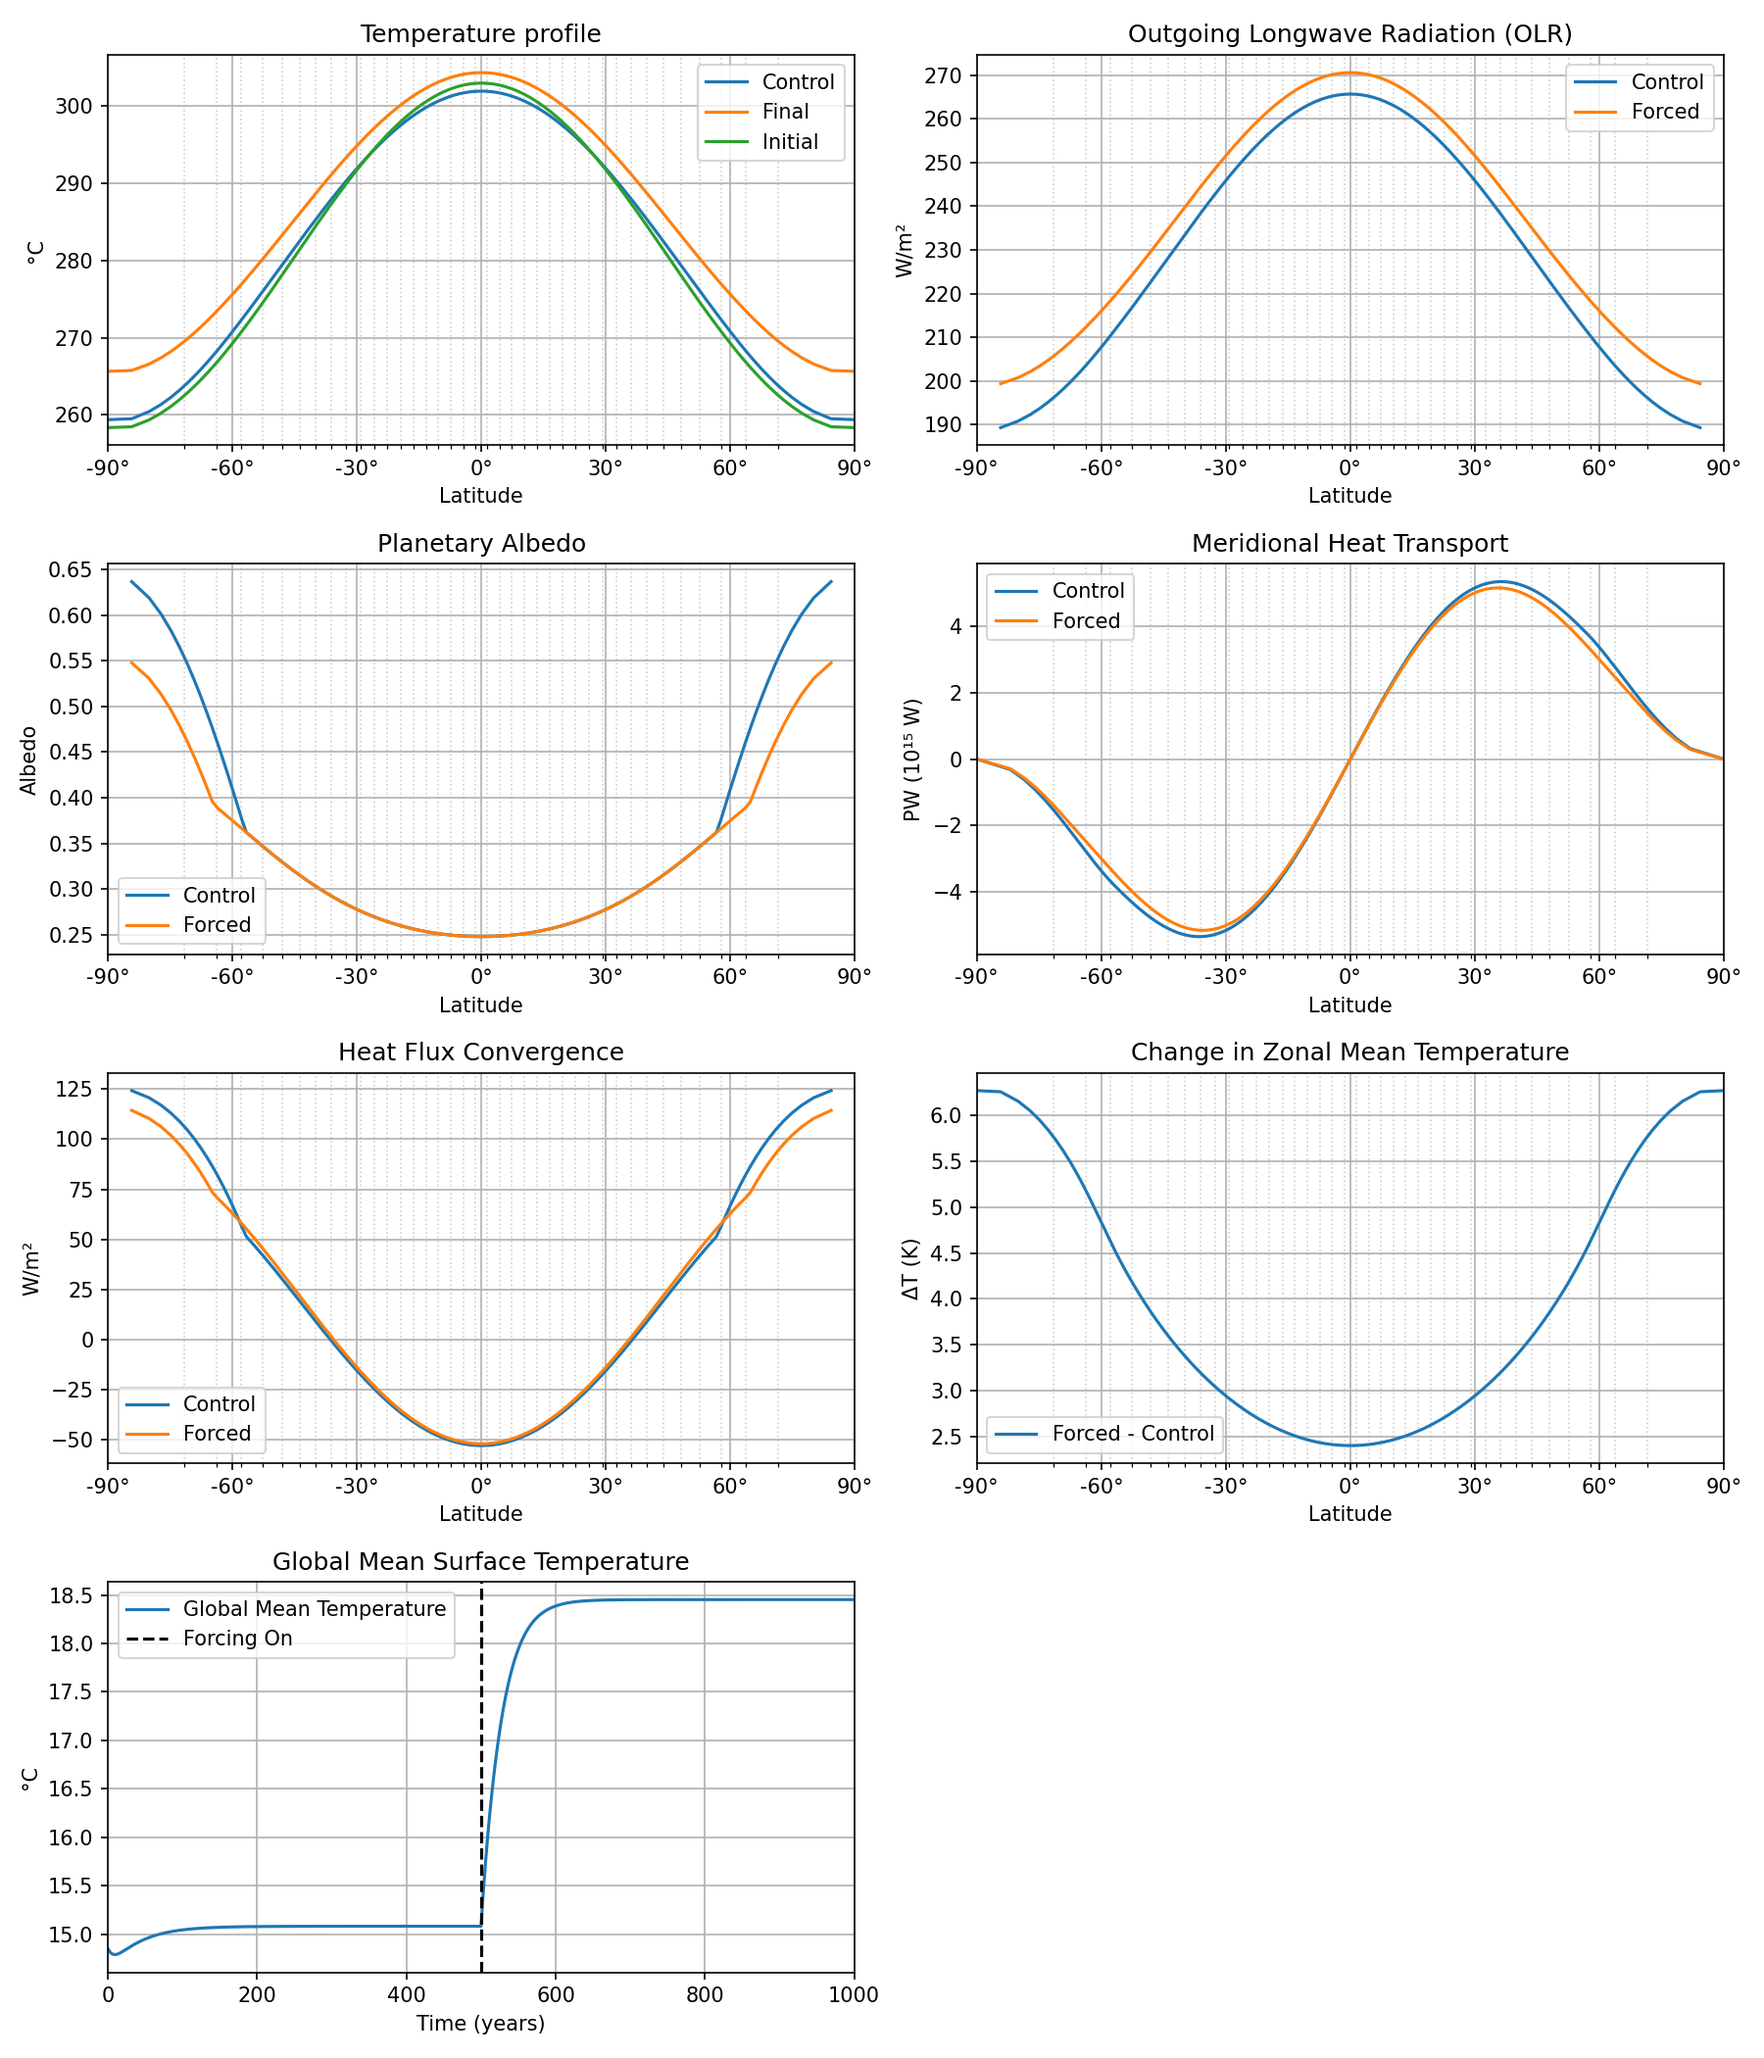
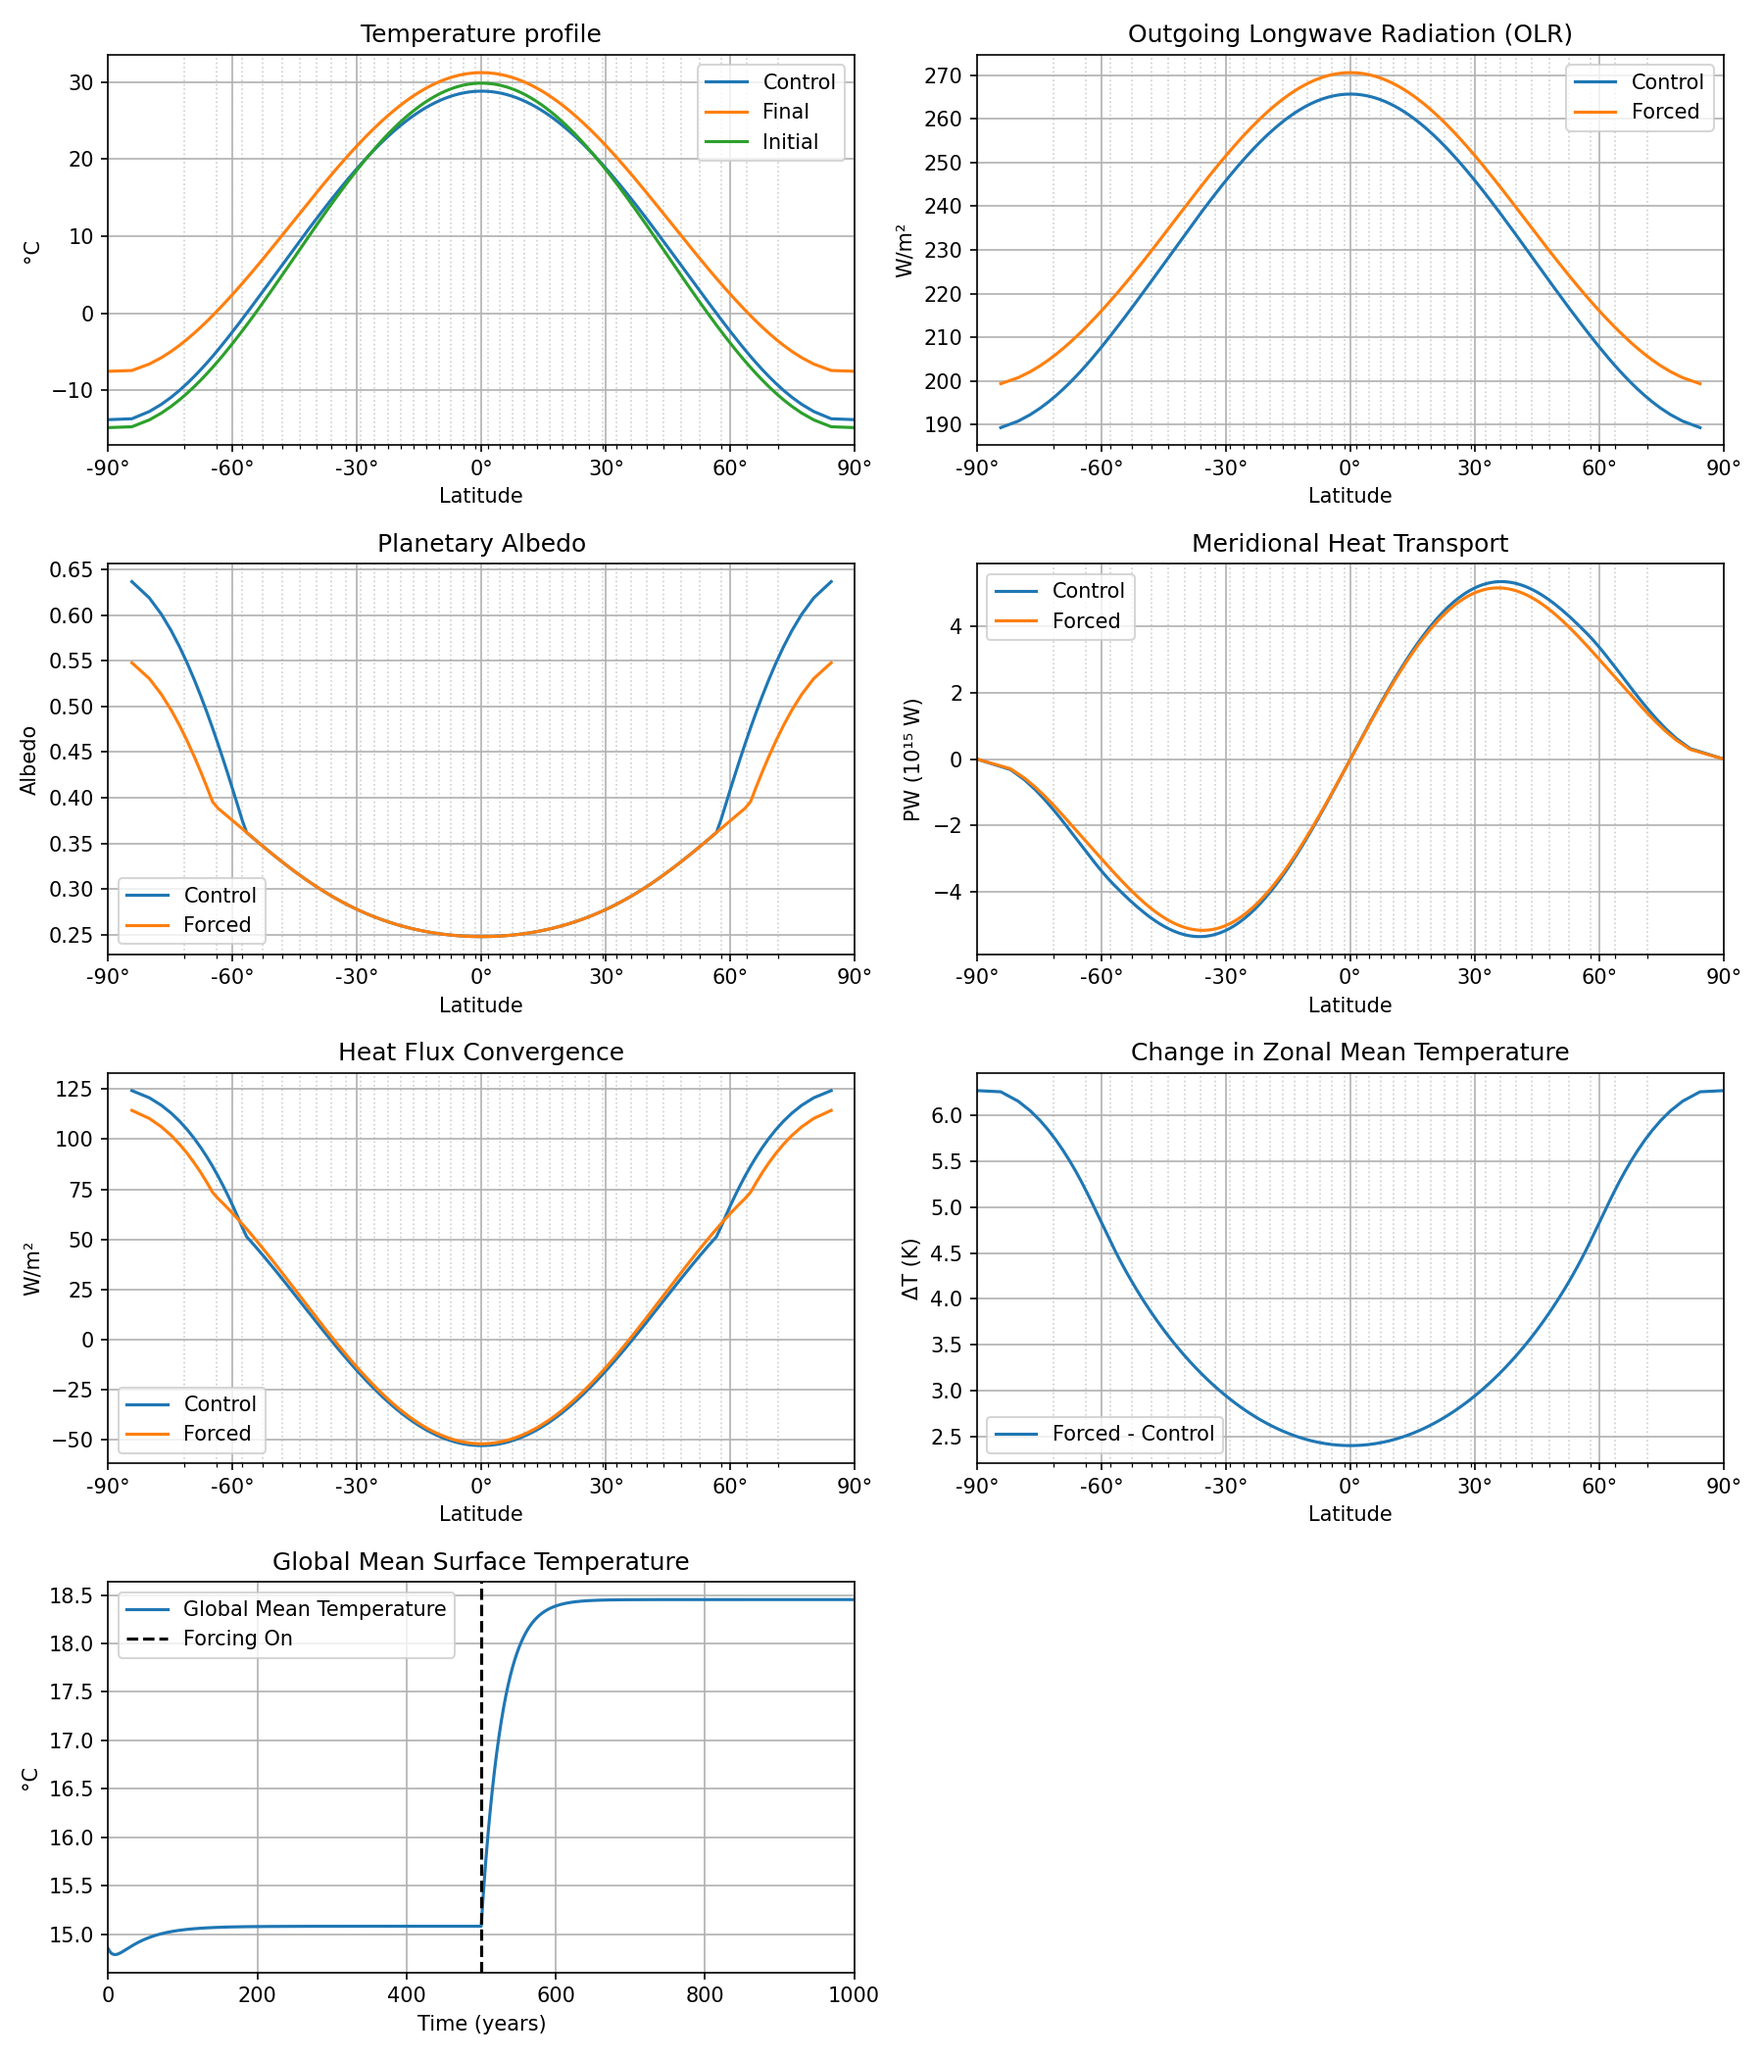
Much more on heat capacity

diff --git a/Programfiler/physics.py b/Programfiler/physics.py
@@ -1,4 +1,6 @@
 import numpy as np
+from scipy.interpolate import CubicSpline
+
 
 # ---------------- Physical / model constants ----------------
 SIGMA = 5.67e-8                  # Stefan-Boltzmann (W/m²/K⁴)
@@ -90,7 +92,7 @@ def deltaT_of_Ts(Ts, k3):
     """Equation (13): δT(Ts) = DELTA_T0 + k3 (Ts - T00), with lower bound."""
     return np.maximum(DELTA_T0 + k3 * (Ts - T00), DELTA_T_MIN)
 
-def heat_capacity_profile(nx, T, k1):
+def heat_capacity_profile(x, T, k1):
     """
     Compute latitude-dependent effective heat capacities for a sin(lat)-spaced EBM grid.
     
@@ -123,19 +125,14 @@ def heat_capacity_profile(nx, T, k1):
         See references below. :contentReference[oaicite:0]{index=0}
     - Southern Hemisphere has greater ocean fraction than Northern Hemisphere; we reflect
         that asymmetry in f_ocean(lat). :contentReference[oaicite:1]{index=1}
-    """
-    T = np.asarray(T)
-    assert T.shape == (nx,), "T must be length nx"
-    
+    """    
     # physical constants
     rho = 1000.0        # kg/m^3
     cp = 4186.0         # J/kg/K
     h_land = 8.0        # m, land equivalent (water-equivalent), ~1/30 of deep-ocean reference
     
-    # latitude grid in sin(lat) space
-    x = np.linspace(-1.0, 1.0, nx)        # sin(latitude)
-    lat_rad = np.arcsin(x)                # radians
-    lat_deg = np.degrees(lat_rad)         # degrees, negative = southern hemisphere
+    # latitude in degrees from x = sin(lat)
+    lat_deg = np.degrees(np.arcsin(x))
     
     # --------------------------
     # Ocean mixed-layer depth profile (seasonal-scale, more nuance)
@@ -162,29 +159,36 @@ def heat_capacity_profile(nx, T, k1):
                         30.0])   # near North Pole (shallow seasonal ML do to fresh water)
     
     # interpolate mixed-layer depth onto grid
-    h_ocean = np.interp(lat_deg, lat_knots, h_knots)
+    interpolater = CubicSpline(lat_knots, h_knots, bc_type='clamped')
+    h_ocean = interpolater(lat_deg)
+
+    # # --------------------------
+    # # Asymmetric zonal ocean fraction f_ocean(lat)
+    # # Hard-coded (smooth) zonal ocean fraction knots. Values based on general land/ocean
+    # # geography: Southern hemisphere has more ocean (esp. 30S-60S), Northern hemisphere has
+    # # more land at mid-latitudes (Eurasia, North America). These are smooth, empirical values.
+    # # Source: qualitative/quantitative zonal land fraction diagrams (e.g. land-fraction vs latitude).
+    # lat_knots_f = np.array([-90, -70, -50, -30, -15, 0, 15, 30, 50, 70, 90])
+    # # zonal ocean fraction at knots (0..1). Southern hemisphere has systematically larger ocean fraction.
+    # f_ocean_knots = np.array([0.0,  # Continent/ice cap
+    #                         0.75,   # 70S -> Mostly Antarctic land, but surrounding Southern Ocean begins
+    #                         0.95,   # 50S -> Southern Ocean dominates
+    #                         0.8,  # 30S -> Still ocean-dominated, only S. America, Africa, Australia
+    #                         0.8,   # 15S -> Mostly ocean
+    #                         0.75,  # 0   -> Continents cut across (Africa, S. America, Indonesia)
+    #                         0.75,   # 15N -> Africa + Asia reduce ocean fraction
+    #                         0.55,   # 30N -> Subtropics: Africa, Asia, N. America
+    #                         0.4,  # 50N -> Eurasia + N. America dominate, but N. Atlantic/Pacific present
+    #                         0.65,  # 70N -> Arctic Ocean exists, though partly enclosed
+    #                         1.0])  # Central Arctic Ocean basin
+    data = np.loadtxt("ocean_fraction_by_latitude_5deg.csv", delimiter=",", skiprows=1)
+    lat_knots_f = data[:,0]
+    f_ocean_knots = data[:,1]
     
-    # --------------------------
-    # Asymmetric zonal ocean fraction f_ocean(lat)
-    # Hard-coded (smooth) zonal ocean fraction knots. Values based on general land/ocean
-    # geography: Southern hemisphere has more ocean (esp. 30S-60S), Northern hemisphere has
-    # more land at mid-latitudes (Eurasia, North America). These are smooth, empirical values.
-    # Source: qualitative/quantitative zonal land fraction diagrams (e.g. land-fraction vs latitude).
-    lat_knots_f = np.array([-90, -70, -50, -30, -15, 0, 15, 30, 50, 70, 90])
-    # zonal ocean fraction at knots (0..1). Southern hemisphere has systematically larger ocean fraction.
-    f_ocean_knots = np.array([0.0,  # Continent/ice cap
-                            0.2,   # 70S -> Mostly Antarctic land, but surrounding Southern Ocean begins
-                            0.9,   # 50S -> Southern Ocean dominates
-                            0.85,  # 30S -> Still ocean-dominated, only S. America, Africa, Australia
-                            0.8,   # 15S -> Mostly ocean
-                            0.75,  # 0   -> Continents cut across (Africa, S. America, Indonesia)
-                            0.7,   # 15N -> Africa + Asia reduce ocean fraction
-                            0.6,   # 30N -> Subtropics: Africa, Asia, N. America
-                            0.55,  # 50N -> Eurasia + N. America dominate, but N. Atlantic/Pacific present
-                            0.65,  # 70N -> Arctic Ocean exists, though partly enclosed
-                            1.0])  # Central Arctic Ocean basin
-    f_ocean = np.clip(np.interp(lat_deg, lat_knots_f, f_ocean_knots), 0.0, 1.0)
-    
+    # interpolate ocean fraction onto grid
+    interpolater = CubicSpline(lat_knots_f, f_ocean_knots, bc_type='clamped')
+    f_ocean = np.clip(interpolater(lat_deg), 0.0, 1.0)
+
     # --------------------------
     # --- Ice fraction (same formula as in albedo) ---
     # ice_fraction in [0,1]: 1 => full ice cover (ocean behaves like land shallow)

diff --git a/Programfiler/outputs.py b/Programfiler/outputs.py
@@ -127,7 +127,7 @@ class DefaultOutput(OutPut):
     def panel1(self, ax):
         """Plot initial, control and final temperature profiles."""
         for case, label in zip(["mid", "end", "init"], ["Control", "Final", "Initial"]):
-            ax.plot(self.lat_ext, self.diags[case]["T_ext"], label=label)
+            ax.plot(self.lat_ext, self.diags[case]["T_ext"] - 273.15, label=label)
         ax.set_title("Temperature profile")
         ax.set_ylabel("°C")
         self.Stylize(ax)
@@ -353,10 +353,15 @@ class SeasonalOutput(OutPut):
         return date.strftime("%b %d")
 
 class SeaDepthOutput(OutPut):
-    SeaDepths = [] # Series of sea depths
+    T_ext = [] # Series of sea depths
+
+    def initialize(self, model):
+        self.k1 = model.params["k1"]
 
     def step(self, model, i):
-        self.SeaDepths.append(model.C / phys.C_M)
+        T = model.T.copy()
+        T_poles = model.funcs['poles_temperature'](T, model=model, i=i)
+        self.T_ext.append(np.r_[T_poles[0], T, T_poles[1]])
     
     def finalize(self, model):
         quarter = int(round(1 / model.config['dt_years'])) // 4
@@ -365,13 +370,16 @@ class SeaDepthOutput(OutPut):
                 "Summer sol": quarter,
                 "Autumn eqx": 2 * quarter,
                 "Winter sol": 3 * quarter,
-            }
-        self.lat = np.degrees(np.arcsin(model.x))
-        
+            } if "SeasonalVariation" in model.config["modes"] else {"": -1}
+        self.x_ext = np.r_[-1, model.x, 1]
+        self.lat_ext = np.degrees(np.arcsin(self.x_ext))
+
         self.axes_funcs = [self.panel]
     
     def panel(self, ax):
         for label, idx in self.phases.items():
-            ax.plot(self.lat, self.SeaDepths[idx], label=label)
+            ax.plot(self.lat_ext, phys.heat_capacity_profile(self.x_ext, self.T_ext[idx], self.k1) / phys.C_M, label=label)
         ax.set_title(r"Heat capacities based on ML depth and % of landmass"); ax.set_ylabel("m (equivalent water depth)")
         DefaultOutput.Stylize(self, ax)
+        if len(self.phases) == 1:
+            ax.legend_.remove()

diff --git a/Programfiler/modes.py b/Programfiler/modes.py
@@ -3,7 +3,13 @@ import numpy as np
 import outputs
 import physics as phys
 
+def Ignore_model(func):
+    return lambda self, modes=None: func(self)
+
 class Mode:
+    @Ignore_model
+    def __init__(self):
+        pass
     def __str__(self):
         return self.__class__.__name__
     def initialize(self, model): pass
@@ -33,14 +39,17 @@ class SeasonalVariation(Mode):
     outputs = [outputs.SeasonalOutput(), outputs.TimeSeriesOutput()]
 
 class VariableSeaDepth(Mode):
+    def __init__(self, modes):
+        if len(modes) == 1:
+            self.outputs.extend([outputs.DefaultOutput(), outputs.TimeSeriesOutput(True)])
+        self.outputs.append(outputs.SeaDepthOutput())
+
     def initialize(self, model):
         model.config["output_dir"] += "_SeaDep" #Modify output directory name
         del model.params["SD"] #Remove unused key from output
 
     def step(self, model, i):
-        model.C = phys.heat_capacity_profile(model.config["nx"], model.T, model.params["k1"])
-    
-    outputs = [outputs.SeaDepthOutput()]
+        model.C = phys.heat_capacity_profile(model.x, model.T, model.params["k1"])
 
 def warn(msg):
     """

diff --git a/Programfiler/main.py b/Programfiler/main.py
@@ -29,7 +29,7 @@ if __name__ == "__main__":
     modes_list = [] # Is a list of mode class instances
     for mode_name in config["modes"]:
         if hasattr(modes, mode_name):
-            modes_list.append(getattr(modes, mode_name)())
+            modes_list.append(getattr(modes, mode_name)(config["modes"])) # Some modes needs to know what other modes there are to choose correct outputs
         else:
             raise ValueError(f"Unknown mode: {mode_name}")
 
